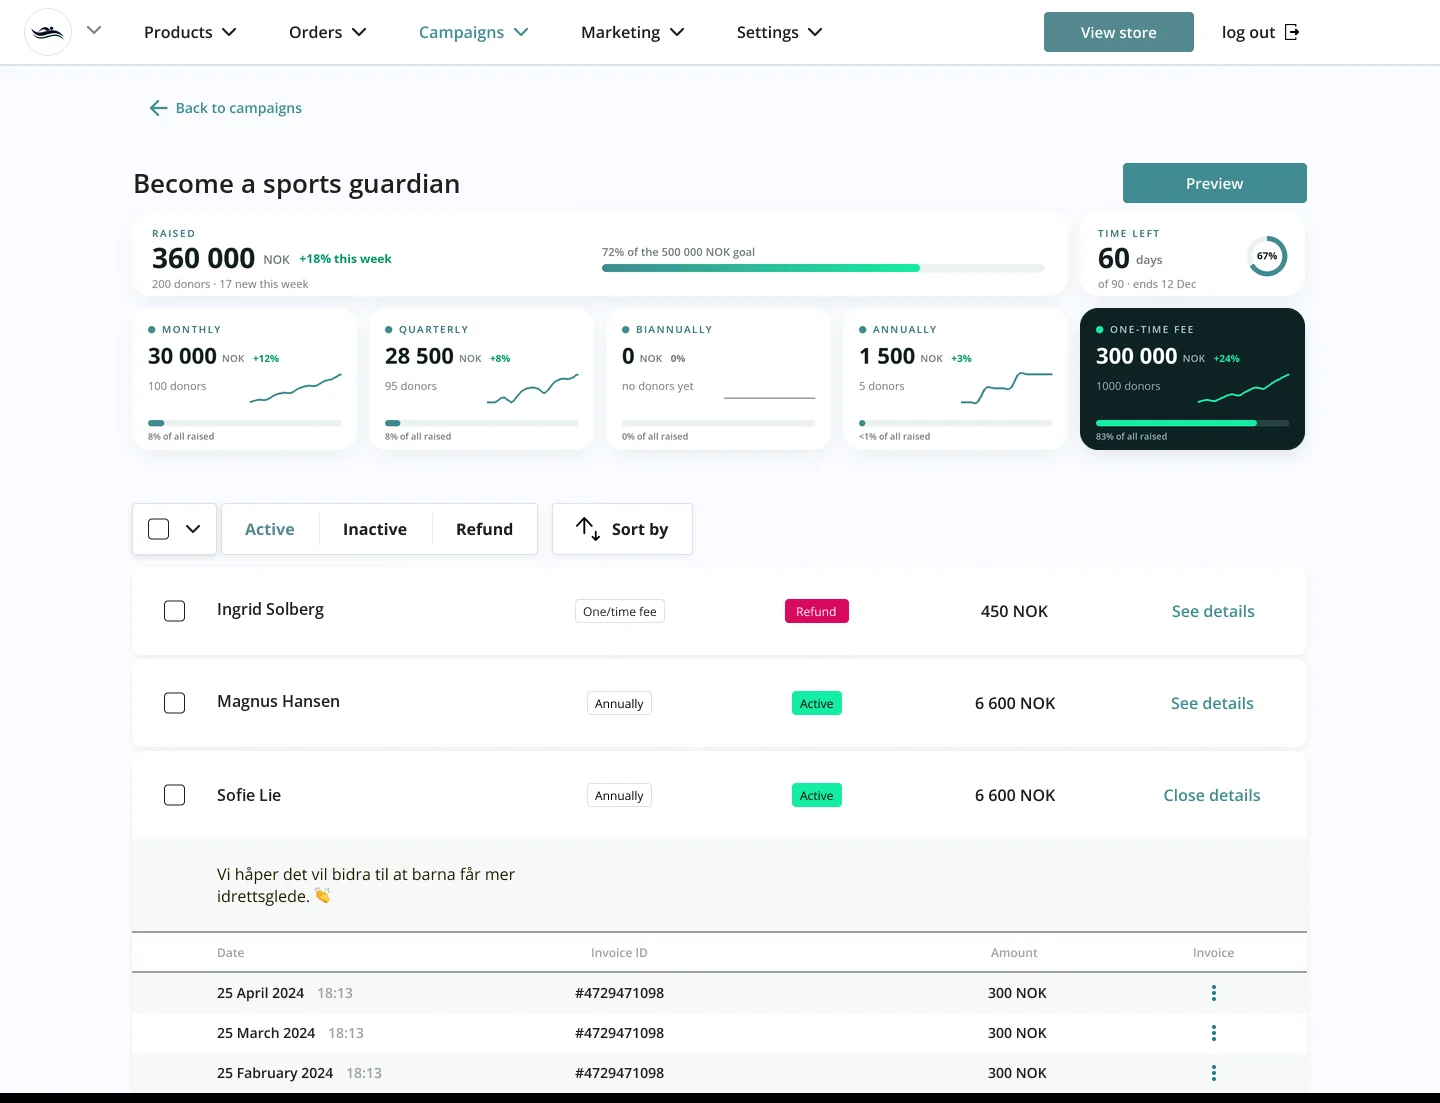
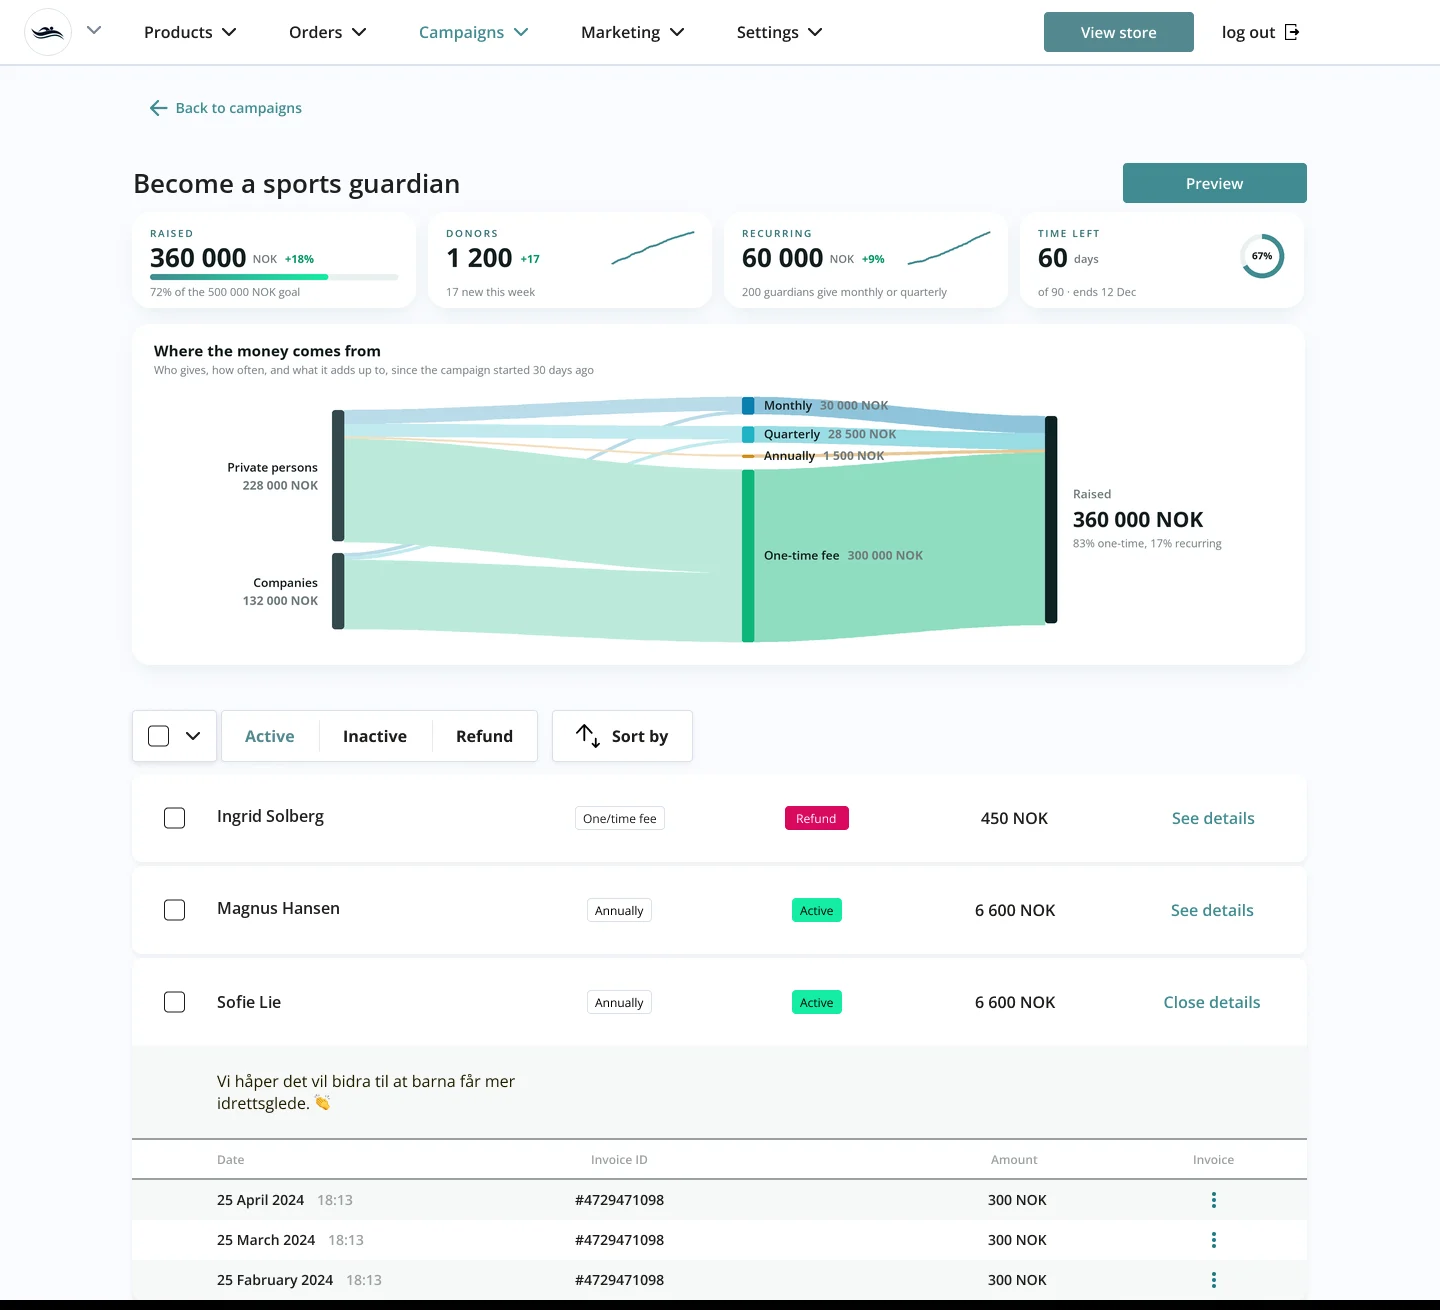
Sport Guardian admin: one row of four cards and a Sankey of where the money comes from

diff --git a/SportGuardian.html b/SportGuardian.html
@@ -278,7 +278,7 @@ footer .wrap{display:flex;justify-content:space-between;gap:16px;flex-wrap:wrap}
 
 <figure class="c5-12 rv" style="--d:.1s"><div class="panel"><img class="el c" src="assets/work/sport-guardian/el-create-donations.webp" alt="From the campaign builder: Accept donations from private persons and companies, and Select donation frequency, from monthly to a one-time fee, each with a short hint." width="1200" height="1183" loading="lazy"></div><figcaption>For the club: who can give and how often, with a hint under every choice.</figcaption></figure>
 
-<figure class="c1-12 rv scroll"><div class="panel"><div class="browser" style="max-width:1000px"><div class="bar" aria-hidden="true"><i></i><i></i><i></i><span>admin.supporter.no</span></div><div class="vp fx" style="--to:-19.6%;--t:12s;--hd:4.514%"><img class="hd" src="assets/work/sport-guardian/screen-statistik-head.webp" alt="" width="1440" height="65" loading="lazy"><img src="assets/work/sport-guardian/screen-statistik-body.webp" alt="Campaign statistics in the admin panel: days left and amount raised, a card with a growth chart for each frequency from monthly to one-time, and a list of donors with their status." width="1440" height="1038" loading="lazy"></div></div></div><figcaption style="max-width:64ch">The admin panel: what each frequency brings in, and every donor, with refunds and cancellations in one place.</figcaption></figure>
+<figure class="c1-12 rv scroll"><div class="panel"><div class="browser" style="max-width:1000px"><div class="bar" aria-hidden="true"><i></i><i></i><i></i><span>admin.supporter.no</span></div><div class="vp fx" style="--to:-32.9%;--t:18s;--hd:4.514%"><img class="hd" src="assets/work/sport-guardian/screen-statistik-head.webp" alt="" width="1440" height="65" loading="lazy"><img src="assets/work/sport-guardian/screen-statistik-body.webp" alt="Campaign statistics in the admin panel: cards for raised, donors, recurring and time left, then a Sankey chart of where the money comes from, private persons and companies through each frequency to 360 000 NOK raised, and a list of donors with their status." width="1440" height="1245" loading="lazy"></div></div></div><figcaption style="max-width:64ch">The admin panel: what each frequency brings in, and every donor, with refunds and cancellations in one place.</figcaption></figure>
 
 </div>
   </section>

diff --git a/tools/sport-guardian/sankey.py b/tools/sport-guardian/sankey.py
@@ -1,0 +1,120 @@
+"""One row of cards and a Sankey under it, for the admin statistics (2026-10-13, her request: "one row of cards
+and a modern chart under it"). Who gives (private persons, companies) -> how often -> raised. The split is made up
+for the mockup; the totals match the cards (360 000 NOK, 1200 donors). The categorical palette was checked with the
+dataviz validator (light surface): lightness band, chroma, CVD and normal-vision separation pass; contrast is a
+WARN, so every node carries a direct text label.
+"""
+from PIL import Image, ImageDraw, ImageFilter
+from stat_cards import FONT, S, TEAL, GREEN, _tracked, _spark
+
+FREQ = [('Monthly', (10, 127, 176)), ('Quarterly', (34, 179, 196)), ('Annually', (208, 138, 28)), ('One-time fee', (13, 181, 122))]
+FLOWS = {('Private persons', 'Monthly'): 24000, ('Private persons', 'Quarterly'): 22500, ('Private persons', 'Annually'): 1500,
+         ('Private persons', 'One-time fee'): 180000, ('Companies', 'Monthly'): 6000, ('Companies', 'Quarterly'): 6000,
+         ('Companies', 'One-time fee'): 120000}
+INKD, MUT, LAB, UP = (20, 30, 32), (112, 124, 128), (52, 112, 118), (8, 150, 100)
+
+
+def _ribbon(d, x0, a0, a1, x1, b0, b1, col, steps=48):
+    top, bot = [], []
+    for k in range(steps+1):
+        t = k/steps; e = t*t*(3-2*t); x = x0+(x1-x0)*t
+        top.append((x, a0+(b0-a0)*e)); bot.append((x, a1+(b1-a1)*e))
+    d.polygon(top+bot[::-1], fill=col)
+
+
+def dashboard_sankey(im, H_BLOCK=470):
+    """Returns a new, taller screen: the top of the screen, the new block, then the rest from the donor list."""
+    top = im.crop((0, 0, im.width, 207)); rest = im.crop((0, 470, im.width, im.height))
+    bg = im.getpixel((10, 300))
+    out = Image.new('RGB', (im.width, 207+H_BLOCK+rest.height), bg)
+    out.paste(top, (0, 0)); out.paste(rest, (0, 207+H_BLOCK))
+
+    def card(x, y, w, h):
+        sh = Image.new('L', out.size, 0); ImageDraw.Draw(sh).rounded_rectangle((x+3, y+8, x+w-3, y+h+4), 18, fill=22)
+        out.paste(Image.new('RGB', out.size, (40, 70, 80)), (0, 0), sh.filter(ImageFilter.GaussianBlur(9)))
+        c = Image.new('RGBA', (w*S, h*S), (0, 0, 0, 0))
+        ImageDraw.Draw(c).rounded_rectangle((0, 0, w*S-1, h*S-1), 18*S, fill=(255, 255, 255))
+        return c
+
+    def put(c, x, y):
+        c = c.resize((c.width//S, c.height//S), Image.LANCZOS); out.paste(c, (x, y), c)
+
+    lab = FONT('SemiBold', 10*S); big = FONT('Bold', 26*S); unitf = FONT('SemiBold', 11*S)
+    # one row of four cards
+    x0, y0, h0, gap = 132, 212, 96, 12; w4 = (1305-x0-3*gap)//4
+    specs = [('RAISED', '360 000', 'NOK', '+18%', '72% of the 500 000 NOK goal', 'bar', .72),
+             ('DONORS', '1 200', '', '+17', '17 new this week', 'spark', [900, 940, 960, 1000, 1020, 1060, 1080, 1110, 1140, 1160, 1183, 1200]),
+             ('RECURRING', '60 000', 'NOK', '+9%', '200 guardians give monthly or quarterly', 'spark', [30, 32, 33, 36, 38, 41, 44, 47, 50, 54, 57, 60]),
+             ('TIME LEFT', '60', 'days', '', 'of 90 · ends 12 Dec', 'ring', 60/90)]
+    for i, (name, val, unit, ch, sub, kind, data) in enumerate(specs):
+        x = x0+i*(w4+gap); c = card(x, y0, w4, h0); d = ImageDraw.Draw(c)
+        _tracked(d, (18*S, 14*S), name, lab, LAB, 1.6*S)
+        d.text((18*S, 27*S), val, font=big, fill=INKD); vw = d.textlength(val, font=big)
+        uw = 0
+        if unit: d.text((18*S+vw+6*S, 39*S), unit, font=unitf, fill=MUT); uw = d.textlength(unit, font=unitf)+6*S
+        if ch: d.text((18*S+vw+uw+8*S, 39*S), ch, font=FONT('Bold', 11*S), fill=UP)
+        d.text((18*S, 72*S), sub, font=FONT('Regular', 11*S), fill=MUT)
+        if kind == 'bar':
+            bl, br, by = 18*S, (w4-18)*S, 62*S
+            d.rounded_rectangle((bl, by, br, by+6*S), 3*S, fill=(234, 240, 241))
+            fw = int((br-bl)*data); g = Image.new('RGB', (fw, 6*S))
+            for k in range(fw):
+                t = k/max(fw-1, 1); g.paste(tuple(int(TEAL[j]+(GREEN[j]-TEAL[j])*t) for j in range(3)), (k, 0, k+1, 6*S))
+            gm = Image.new('L', g.size, 0); ImageDraw.Draw(gm).rounded_rectangle((0, 0, fw-1, 6*S-1), 3*S, fill=255)
+            c.paste(g, (bl, by), gm)
+        elif kind == 'spark':
+            _spark(d, ((w4-100)*S, 20*S, (w4-18)*S, 52*S), data, TEAL, None, 2*S)
+        else:
+            cx, cy, r = (w4-42)*S, 44*S, 22*S
+            d.ellipse((cx-r, cy-r, cx+r, cy+r), outline=(234, 240, 241), width=5*S)
+            d.arc((cx-r, cy-r, cx+r, cy+r), -90, -90+360*data, fill=TEAL, width=5*S)
+            f = FONT('Bold', 10*S); b = d.textbbox((0, 0), '67%', font=f)
+            d.text((cx-(b[2]-b[0])/2-b[0], cy-(b[3]-b[1])/2-b[1]), '67%', font=f, fill=INKD)
+        put(c, x, y0)
+
+    # the Sankey card
+    s = S; y1 = y0+h0+16; w1 = 1305-x0; h1 = H_BLOCK-(y1-207)-12
+    c = card(x0, y1, w1, h1); d = ImageDraw.Draw(c)
+    d.text((22*s, 16*s), 'Where the money comes from', font=FONT('Bold', 15*s), fill=INKD)
+    d.text((22*s, 38*s), 'Who gives, how often, and what it adds up to, since the campaign started 30 days ago', font=FONT('Regular', 11*s), fill=MUT)
+    ct, cb, gapn = 74*s, (h1-24)*s, 12*s
+    total = sum(FLOWS.values()); kk = ((cb-ct)-gapn*3)/total
+    hgt = lambda v: max(v*kk, 3*s)
+
+    def stack(names, vals):
+        y = ct+((cb-ct)-(sum(hgt(v) for v in vals)+gapn*(len(vals)-1)))/2; pos = {}
+        for n, v in zip(names, vals):
+            pos[n] = [y, y+hgt(v), y, y]; y += hgt(v)+gapn
+        return pos
+    srcs = ['Private persons', 'Companies']; sv = [sum(v for (a, b), v in FLOWS.items() if a == n) for n in srcs]
+    fr = [n for n, _ in FREQ]; fv = [sum(v for (a, b), v in FLOWS.items() if b == n) for n in fr]
+    xL, xM, xR, nw = 200*s, 610*s, (w1-260)*s, 12*s
+    P = stack(srcs, sv); M = stack(fr, fv)
+    ry = ct+((cb-ct)-total*kk)/2; R = [ry, ry+total*kk, ry]
+    col = dict(FREQ)
+    lay = Image.new('RGBA', c.size, (0, 0, 0, 0)); ld = ImageDraw.Draw(lay)
+    for f in fr:
+        for sname in srcs:
+            v = FLOWS.get((sname, f))
+            if not v: continue
+            h = max(v*kk, 2*s); a0 = P[sname][2]; P[sname][2] += h; b0 = M[f][2]; M[f][2] += h
+            _ribbon(ld, xL+nw, a0, a0+h, xM, b0, b0+h, col[f]+(72,))
+    for f in fr:
+        h = max(M[f][1]-M[f][0], 2*s); a0 = M[f][0]; b0 = R[2]; R[2] += (M[f][1]-M[f][0])
+        _ribbon(ld, xM+nw, a0, a0+h, xR, b0, b0+h, col[f]+(118,))
+    c = Image.alpha_composite(c, lay); d = ImageDraw.Draw(c)
+    nf, vf = FONT('SemiBold', 12*s), FONT('Bold', 12*s)
+    for n, v in zip(srcs, sv):
+        a, b = P[n][0], P[n][1]; d.rounded_rectangle((xL, a, xL+nw, b), 3*s, fill=(52, 72, 76)); ym = (a+b)/2
+        d.text((xL-14*s-d.textlength(n, font=nf), ym-17*s), n, font=nf, fill=INKD)
+        t = f'{v:,}'.replace(',', ' ')+' NOK'; d.text((xL-14*s-d.textlength(t, font=vf), ym+1*s), t, font=vf, fill=MUT)
+    for n, v in zip(fr, fv):
+        a, b = M[n][0], max(M[n][1], M[n][0]+3*s); d.rounded_rectangle((xM, a, xM+nw, b), 2*s, fill=col[n]); ym = (a+b)/2
+        d.text((xM+nw+10*s, ym-9*s), n, font=nf, fill=INKD); tw = d.textlength(n, font=nf)
+        d.text((xM+nw+10*s+tw+8*s, ym-9*s), f'{v:,}'.replace(',', ' ')+' NOK', font=vf, fill=MUT)
+    d.rounded_rectangle((xR, R[0], xR+nw, R[1]), 3*s, fill=(14, 34, 37)); ym = (R[0]+R[1])/2
+    d.text((xR+nw+16*s, ym-34*s), 'Raised', font=nf, fill=MUT)
+    d.text((xR+nw+16*s, ym-15*s), '360 000 NOK', font=FONT('Bold', 21*s), fill=INKD)
+    d.text((xR+nw+16*s, ym+16*s), '83% one-time, 17% recurring', font=FONT('Regular', 11*s), fill=MUT)
+    put(c, x0, y1)
+    return out

diff --git a/tools/sport-guardian/fix_screens.py b/tools/sport-guardian/fix_screens.py
@@ -30,12 +30,14 @@ ab = retext(Image.open(os.path.join(F, '1x', 'admin-business.png')).convert('RGB
              ((366, 698, 600, 725), 'Elvebakken Tennis', (369, 711))], 16)
 save(ab, 'screen-admin-business')
 
-from stat_cards import dashboard, club_logo
-st = club_logo(dashboard(Image.open(os.path.join(F, '1x', 'statistik.png')).convert('RGB'))); d = ImageDraw.Draw(st)
+from stat_cards import club_logo
+from sankey import dashboard_sankey
+st = Image.open(os.path.join(F, '1x', 'statistik.png')).convert('RGB'); d = ImageDraw.Draw(st)
 for y, name in [(611, 'Ingrid Solberg'), (703, 'Magnus Hansen'), (795, 'Sofie Lie')]:
     d.rectangle((212, y-16, 525, y+16), fill=(255, 255, 255))
     b = d.textbbox((0, 0), name, font=SEMI); d.text((217-b[0], y-(b[3]-b[1])/2-b[1]), name, font=SEMI, fill=(30, 30, 30))
 retext(st, [((128, 165, 560, 207), 'Become a sports guardian', (133, 186))], 26)
+st = club_logo(dashboard_sankey(st))  # after the names: the new block pushes the donor list down
 save(st, 'screen-statistik')
 save(st.crop((0, 0, 1440, 65)), 'screen-statistik-head'); save(st.crop((0, 65, 1440, st.height)), 'screen-statistik-body')
 

diff --git a/sportguardian.md b/sportguardian.md
@@ -40,7 +40,7 @@ Order (2026-10-13, her request, last change): header → the moving mosaic → A
    (the desktop page: a browser frame, scrolling slowly under its fixed header, on a pale panel)
    - (swapped, her request) on a pale panel (1–5) two phone-size screens, paying by card and paying with Vipps (`m-step-4.webp`, `m-vipps-2.webp`), larger, the card one higher on the left and the Vipps one lower on the right (her request), as tall as the phone panel; the phone on a teal panel (6–9) playing the flow; the caption on the right (10–12): **Card or Vipps.** Donors pay by card, or with Vipps, the mobile payment app used only in the Nordic countries: in Norway most people pay with it in one tap, and donors from anywhere else pay by card. The phone has no caption and no visible Pause button (her request); for WCAG 2.2.2 it stops while the pointer is over it, and a click, a tap or Enter / Space on it stops or starts it (screen readers hear how). The desktop page has no caption or Pause button either (her request); it stops the same way: hover, click, tap, Enter or Space. The card and Vipps screens are 41% of their panel wide with 7% at the sides, between the earlier small and large sizes, to sit with the phone next to them. Her card frame says "Pay 630 NOK"; it reads 603 NOK like the rest of the flow (`mobile_frames.py` also rewrites `card-credit-card.webp`, so run it after `export_assets.py`).
    - the donor list on a teal panel (1–4); the campaign builder's "Accept donations from / Select donation frequency" block on a pale panel (5–12): single elements, as she asked, since the full builder page is not its best side;
-   - the campaign statistics in the admin panel in a browser frame, scrolling under the fixed admin nav (1–12). The five frequency cards are redrawn as modern dashboard cards ("like crypto dashboards, with charts"): label and donor count, the amount, a growth chip, a small area chart with a gradient; One-time fee is the highlighted dark card with a green chart; chart data is made up ([`tools/sport-guardian/stat_cards.py`](tools/sport-guardian/stat_cards.py)). The caption runs in two lines (64ch). Redrawn 2026-10-13 after her sales dashboard reference (inspiration 22): light rounded cards with soft shadows, small uppercase letter-spaced labels, big numbers with the change in green beside them, one line of context, a small sparkline, and a bar for each frequency's share of all money raised; One-time fee is the dark card with a bright green bar. Top row: RAISED 360 000 NOK, +18% this week, the bar to the 500 000 NOK goal and "200 donors · 17 new this week"; TIME LEFT 60 days with a ring, over the One-time fee card. Built by `dashboard()` in `stat_cards.py`; the earlier cards and gradient strip are superseded. The admin header (her request): the club's swimmer mark from the campaign page in a round badge instead of the "Logo" placeholder; the amount raised and the time left share one card across the whole cards row, on a deep-teal-to-teal gradient with a soft green glow on the right so it stands out (her request): on the left "Raised 360 000 NOK" with a "+18% this week" chip and a teal-to-green bar, "72% of 500 000 NOK goal"; on the right a small stopwatch whose teal ring shows the time left, "Time left 60 days, ends 12 Dec". The 90 days, the goal, the end date and the weekly growth are made up for the mockup.
+   - the campaign statistics in the admin panel in a browser frame, scrolling under the fixed admin nav (1–12). The five frequency cards are redrawn as modern dashboard cards ("like crypto dashboards, with charts"): label and donor count, the amount, a growth chip, a small area chart with a gradient; One-time fee is the highlighted dark card with a green chart; chart data is made up ([`tools/sport-guardian/stat_cards.py`](tools/sport-guardian/stat_cards.py)). The caption runs in two lines (64ch). Redrawn 2026-10-13 after her sales dashboard reference (inspiration 22): light rounded cards with soft shadows, small uppercase letter-spaced labels, big numbers with the change in green beside them, one line of context, a small sparkline, and a bar for each frequency's share of all money raised; One-time fee is the dark card with a bright green bar. Top row: RAISED 360 000 NOK, +18% this week, the bar to the 500 000 NOK goal and "200 donors · 17 new this week"; TIME LEFT 60 days with a ring, over the One-time fee card. Then (2026-10-13, her request: one row of cards and a modern chart under it) rebuilt again by `dashboard_sankey()` in [`tools/sport-guardian/sankey.py`](tools/sport-guardian/sankey.py): one row of four cards, RAISED 360 000 NOK +18% with the goal bar, DONORS 1 200 +17 with a sparkline, RECURRING 60 000 NOK +9% with a sparkline, TIME LEFT 60 days with a ring; under it a Sankey, "Where the money comes from": private persons (228 000 NOK) and companies (132 000 NOK) flow through Monthly, Quarterly, Annually and One-time fee into 360 000 NOK raised. The split between private persons and companies is made up; the totals match the cards. The four frequency colours (#0A7FB0, #22B3C4, #D08A1C, #0DB57A) passed the dataviz palette validator on the light surface (lightness, chroma, colour-blind and normal-vision separation); contrast is a warning, so every node has a text label. The screen is 207 px taller, so the donor list moves down and the admin screen scrolls further. The admin header (her request): the club's swimmer mark from the campaign page in a round badge instead of the "Logo" placeholder; the amount raised and the time left share one card across the whole cards row, on a deep-teal-to-teal gradient with a soft green glow on the right so it stands out (her request): on the left "Raised 360 000 NOK" with a "+18% this week" chip and a teal-to-green bar, "72% of 500 000 NOK goal"; on the right a small stopwatch whose teal ring shows the time left, "Time left 60 days, ends 12 Dec". The 90 days, the goal, the end date and the weekly growth are made up for the mockup.
    Fixed headers: each long screen is cut into a header strip and a body (`*-head.webp`, `*-body.webp`) by [`tools/sport-guardian/fix_screens.py`](tools/sport-guardian/fix_screens.py). The same script replaces placeholder texts in the admin screens with made-up names: the statistics title "Become a sports guardian" and donors Ingrid Solberg, Magnus Hansen, Sofie Lie; the campaigns "Swimming for everyone", "Junior squad 2024"; the clubs Fjordby Svømmeklubb, Nordlys Fotball, Elvebakken Tennis. Not real people or clubs.
 5. **Brand** (mockups, not a real campaign):
    - the hoodie photo (the mark alone on its back) across the grid (1–12), 16:8, in place of the logo banner (her request, 2026-10-13); right under it the caption about the mark, no title, in two lines (64ch; her request);
